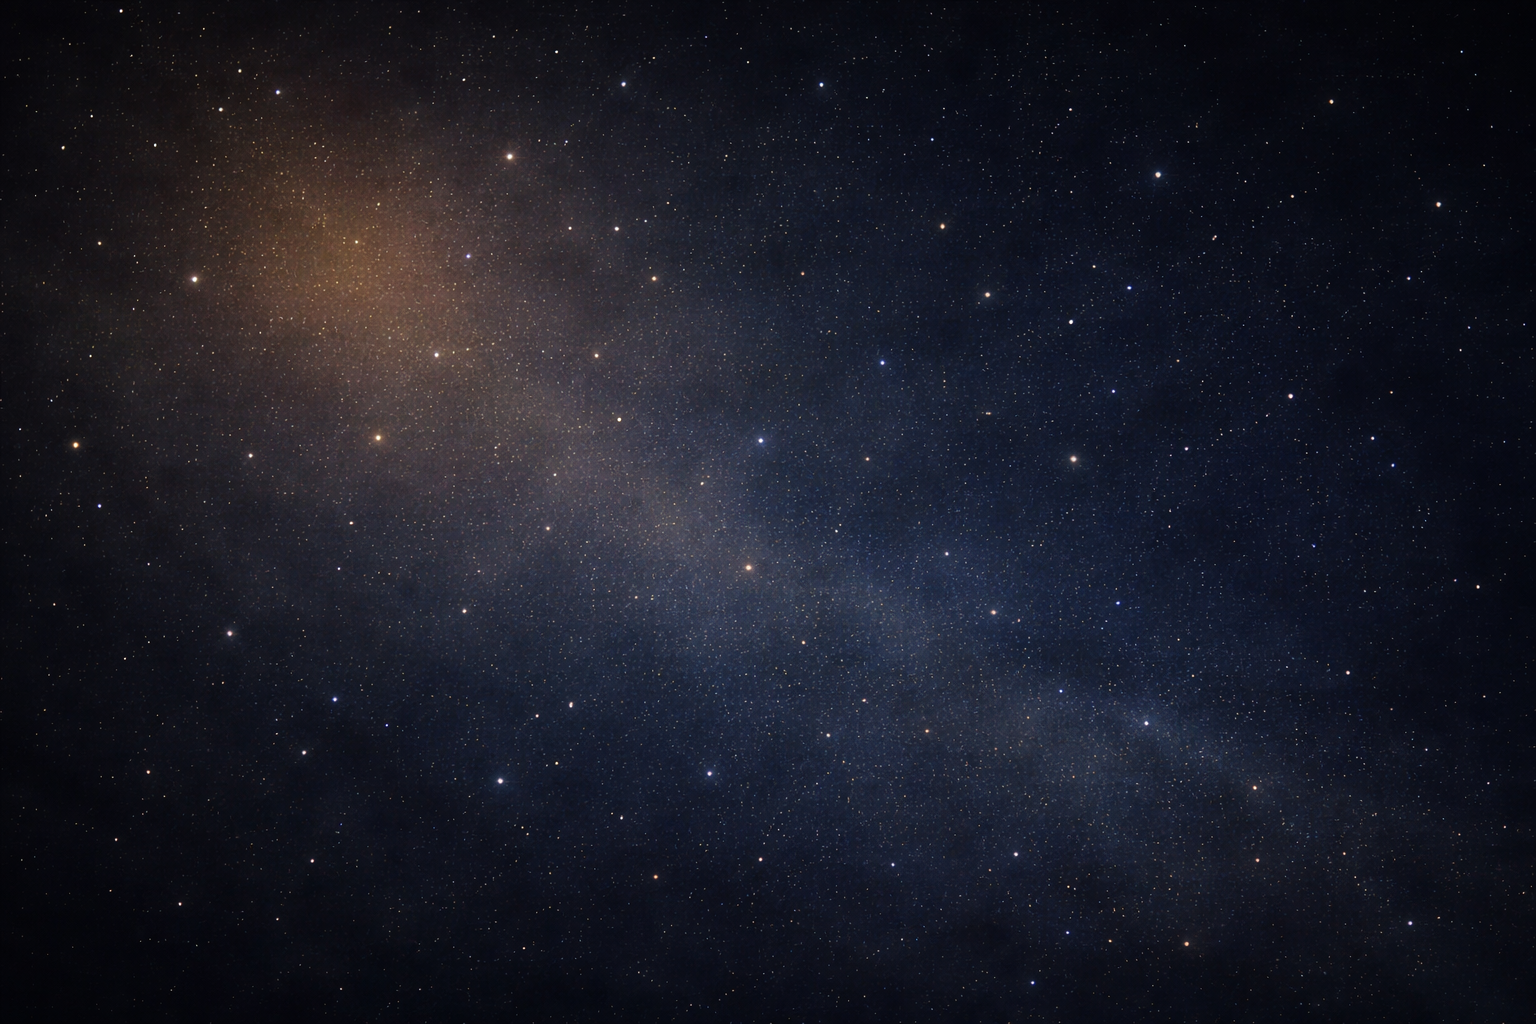
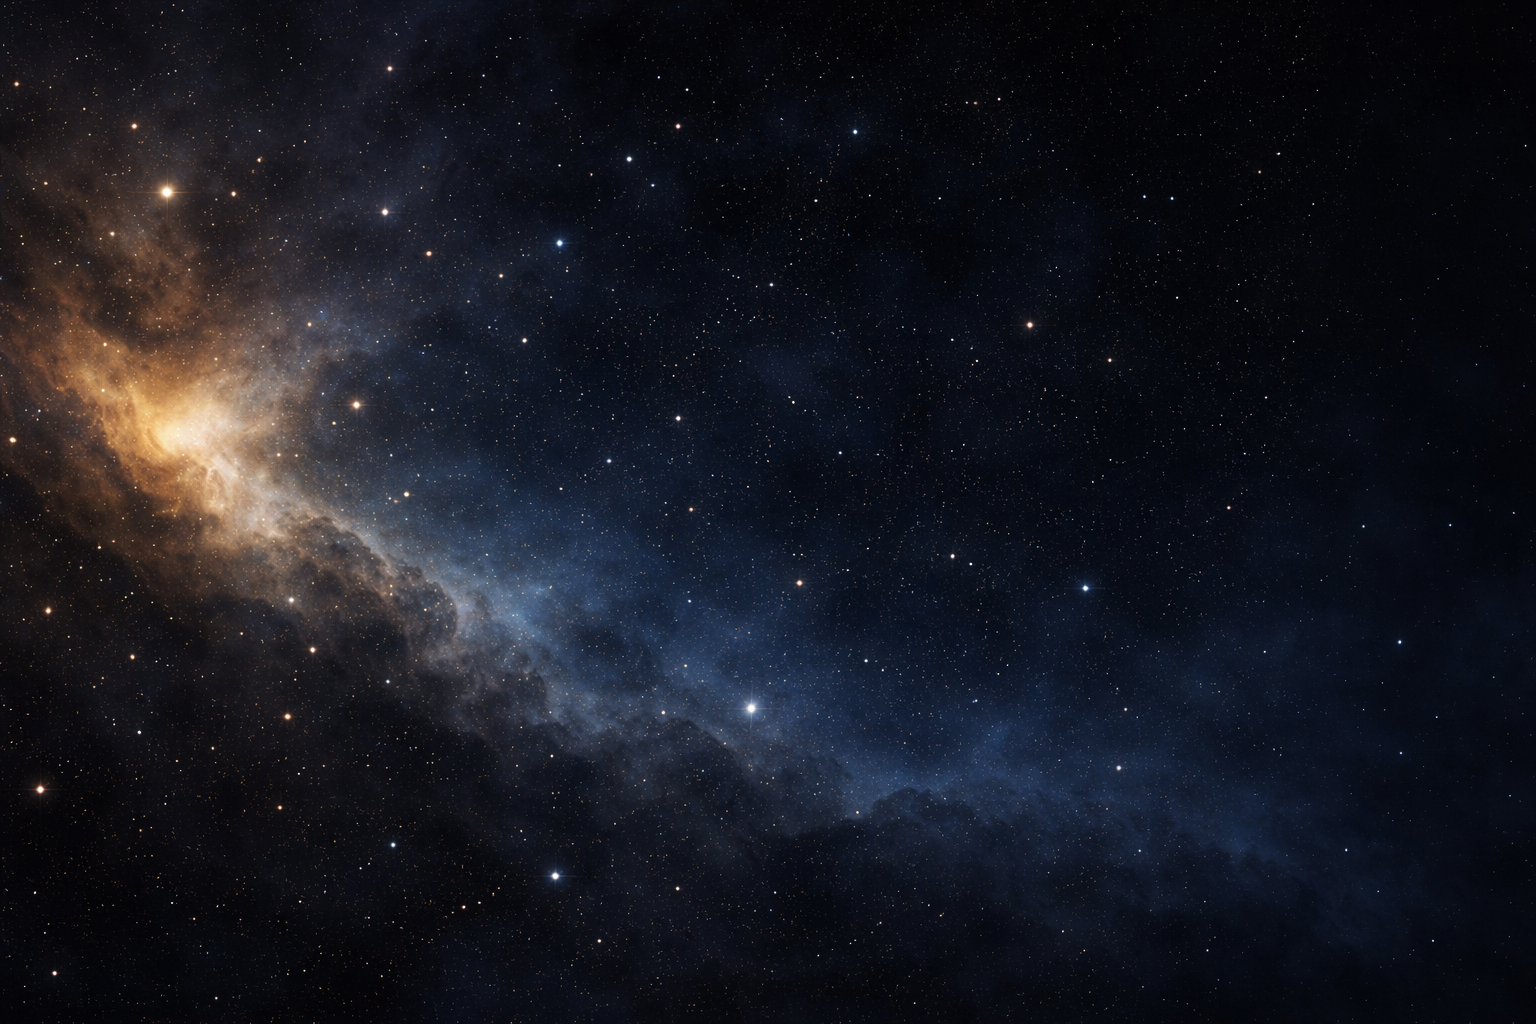
login: atualizar background starfield

diff --git a/src/app/(public)/discipulado/login/loginBackground.module.css b/src/app/(public)/discipulado/login/loginBackground.module.css
@@ -4,9 +4,7 @@
   overflow: hidden;
   min-height: 100svh;
   background-color: #020617;
-  background-image:
-    url("/bg/starfield.png"),
-    url("/discipulado-login-stars.png");
+  background-image: url("/bg/starfield.png");
   background-size: cover;
   background-position: center;
   background-repeat: no-repeat;
